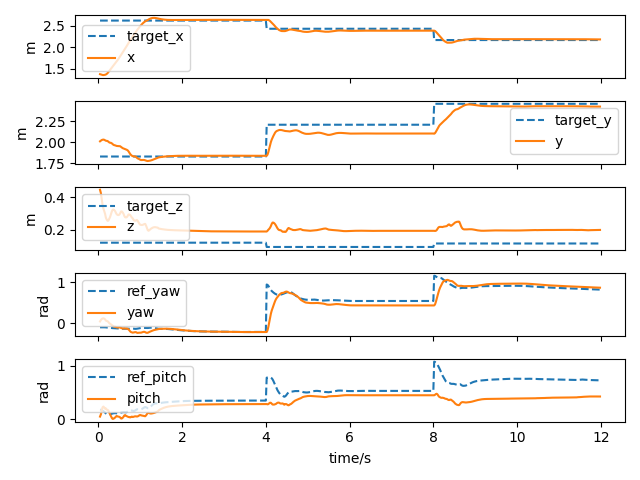
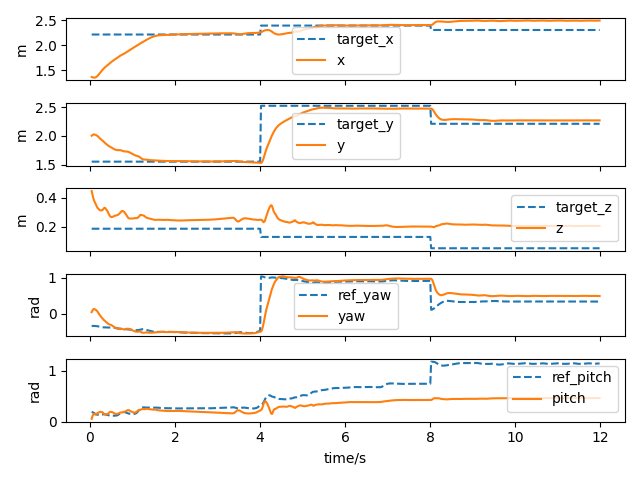
feat: vis goal

diff --git a/legged_gym/legged_gym/envs/go1g/go1g.py b/legged_gym/legged_gym/envs/go1g/go1g.py
@@ -290,7 +290,7 @@ class Go1G(BaseTask):
             self.gym.clear_lines(self.viewer)
             # self._draw_height_samples()
             self._draw_goals()
-            self._draw_feet()
+            # self._draw_feet()
             if self.cfg.depth.use_camera:
                 window_name = "Depth Image"
                 cv2.namedWindow(window_name, cv2.WINDOW_NORMAL)
@@ -1158,39 +1158,43 @@ class Go1G(BaseTask):
             gymutil.draw_lines(sphere_geom, self.gym, self.viewer, self.envs[i], sphere_pose)
     
     def _draw_goals(self):
-        sphere_geom = gymutil.WireframeSphereGeometry(0.1, 32, 32, None, color=(1, 0, 0))
         sphere_geom_cur = gymutil.WireframeSphereGeometry(0.1, 32, 32, None, color=(0, 0, 1))
-        sphere_geom_reached = gymutil.WireframeSphereGeometry(self.cfg.env.next_goal_threshold, 32, 32, None, color=(0, 1, 0))
-        goals = self.terrain_goals[self.terrain_levels[self.lookat_id], self.terrain_types[self.lookat_id]].cpu().numpy()
-        for i, goal in enumerate(goals):
-            goal_xy = goal[:2] + self.terrain.cfg.border_size
-            pts = (goal_xy/self.terrain.cfg.horizontal_scale).astype(int)
-            goal_z = self.height_samples[pts[0], pts[1]].cpu().item() * self.terrain.cfg.vertical_scale
-            pose = gymapi.Transform(gymapi.Vec3(goal[0], goal[1], goal_z), r=None)
-            if i == self.cur_goal_idx[self.lookat_id].cpu().item():
-                gymutil.draw_lines(sphere_geom_cur, self.gym, self.viewer, self.envs[self.lookat_id], pose)
-                if self.reached_goal_ids[self.lookat_id]:
-                    gymutil.draw_lines(sphere_geom_reached, self.gym, self.viewer, self.envs[self.lookat_id], pose)
-            else:
-                gymutil.draw_lines(sphere_geom, self.gym, self.viewer, self.envs[self.lookat_id], pose)
+        pose = gymapi.Transform(gymapi.Vec3(self.target_position[self.lookat_id,0], self.target_position[self.lookat_id,1], self.target_position[self.lookat_id,2]), r=None)
+        gymutil.draw_lines(sphere_geom_cur, self.gym, self.viewer, self.envs[self.lookat_id], pose)
         
-        if not self.cfg.depth.use_camera:
-            sphere_geom_arrow = gymutil.WireframeSphereGeometry(0.02, 16, 16, None, color=(1, 0.35, 0.25))
-            pose_robot = self.root_states[self.lookat_id, :3].cpu().numpy()
-            for i in range(5):
-                norm = torch.norm(self.target_pos_rel, dim=-1, keepdim=True)
-                target_vec_norm = self.target_pos_rel / (norm + 1e-5)
-                pose_arrow = pose_robot[:2] + 0.1*(i+3) * target_vec_norm[self.lookat_id, :2].cpu().numpy()
-                pose = gymapi.Transform(gymapi.Vec3(pose_arrow[0], pose_arrow[1], pose_robot[2]), r=None)
-                gymutil.draw_lines(sphere_geom_arrow, self.gym, self.viewer, self.envs[self.lookat_id], pose)
+        # sphere_geom = gymutil.WireframeSphereGeometry(0.1, 32, 32, None, color=(1, 0, 0))
+        # sphere_geom_cur = gymutil.WireframeSphereGeometry(0.1, 32, 32, None, color=(0, 0, 1))
+        # sphere_geom_reached = gymutil.WireframeSphereGeometry(self.cfg.env.next_goal_threshold, 32, 32, None, color=(0, 1, 0))
+        # goals = self.terrain_goals[self.terrain_levels[self.lookat_id], self.terrain_types[self.lookat_id]].cpu().numpy()
+        # for i, goal in enumerate(goals):
+        #     goal_xy = goal[:2] + self.terrain.cfg.border_size
+        #     pts = (goal_xy/self.terrain.cfg.horizontal_scale).astype(int)
+        #     goal_z = self.height_samples[pts[0], pts[1]].cpu().item() * self.terrain.cfg.vertical_scale
+        #     pose = gymapi.Transform(gymapi.Vec3(goal[0], goal[1], goal_z), r=None)
+        #     if i == self.cur_goal_idx[self.lookat_id].cpu().item():
+        #         gymutil.draw_lines(sphere_geom_cur, self.gym, self.viewer, self.envs[self.lookat_id], pose)
+        #         if self.reached_goal_ids[self.lookat_id]:
+        #             gymutil.draw_lines(sphere_geom_reached, self.gym, self.viewer, self.envs[self.lookat_id], pose)
+        #     else:
+        #         gymutil.draw_lines(sphere_geom, self.gym, self.viewer, self.envs[self.lookat_id], pose)
+        
+        # if not self.cfg.depth.use_camera:
+        #     sphere_geom_arrow = gymutil.WireframeSphereGeometry(0.02, 16, 16, None, color=(1, 0.35, 0.25))
+        #     pose_robot = self.root_states[self.lookat_id, :3].cpu().numpy()
+        #     for i in range(5):
+        #         norm = torch.norm(self.target_pos_rel, dim=-1, keepdim=True)
+        #         target_vec_norm = self.target_pos_rel / (norm + 1e-5)
+        #         pose_arrow = pose_robot[:2] + 0.1*(i+3) * target_vec_norm[self.lookat_id, :2].cpu().numpy()
+        #         pose = gymapi.Transform(gymapi.Vec3(pose_arrow[0], pose_arrow[1], pose_robot[2]), r=None)
+        #         gymutil.draw_lines(sphere_geom_arrow, self.gym, self.viewer, self.envs[self.lookat_id], pose)
             
-            sphere_geom_arrow = gymutil.WireframeSphereGeometry(0.02, 16, 16, None, color=(0, 1, 0.5))
-            for i in range(5):
-                norm = torch.norm(self.next_target_pos_rel, dim=-1, keepdim=True)
-                target_vec_norm = self.next_target_pos_rel / (norm + 1e-5)
-                pose_arrow = pose_robot[:2] + 0.2*(i+3) * target_vec_norm[self.lookat_id, :2].cpu().numpy()
-                pose = gymapi.Transform(gymapi.Vec3(pose_arrow[0], pose_arrow[1], pose_robot[2]), r=None)
-                gymutil.draw_lines(sphere_geom_arrow, self.gym, self.viewer, self.envs[self.lookat_id], pose)
+        #     sphere_geom_arrow = gymutil.WireframeSphereGeometry(0.02, 16, 16, None, color=(0, 1, 0.5))
+        #     for i in range(5):
+        #         norm = torch.norm(self.next_target_pos_rel, dim=-1, keepdim=True)
+        #         target_vec_norm = self.next_target_pos_rel / (norm + 1e-5)
+        #         pose_arrow = pose_robot[:2] + 0.2*(i+3) * target_vec_norm[self.lookat_id, :2].cpu().numpy()
+        #         pose = gymapi.Transform(gymapi.Vec3(pose_arrow[0], pose_arrow[1], pose_robot[2]), r=None)
+        #         gymutil.draw_lines(sphere_geom_arrow, self.gym, self.viewer, self.envs[self.lookat_id], pose)
         
     def _draw_feet(self):
         if hasattr(self, 'feet_at_edge'):

diff --git a/legged_gym/legged_gym/scripts/play.py b/legged_gym/legged_gym/scripts/play.py
@@ -66,7 +66,7 @@ def play(args):
     # override some parameters for testing
     if args.nodelay:
         env_cfg.domain_rand.action_delay_view = 0
-    env_cfg.env.num_envs = 2 if not args.save else 64
+    env_cfg.env.num_envs = 1 if not args.save else 64  # 2
     env_cfg.env.episode_length_s = 12 # 60
     env_cfg.commands.resampling_time = 4 # 60
     env_cfg.terrain.num_rows = 2
@@ -121,7 +121,7 @@ def play(args):
 
     # load policy
     train_cfg.runner.resume = True
-    ppo_runner, train_cfg, log_pth = task_registry.make_alg_runner(log_root = log_pth, env=env, name=args.task, args=args, train_cfg=train_cfg, model_name_include="model", return_log_dir=True)
+    ppo_runner, train_cfg, log_pth = task_registry.make_alg_runner(log_root = log_pth, env=env, name=args.task, args=args, train_cfg=train_cfg, model_name_include="ee", return_log_dir=True)
     
     if args.use_jit:
         path = os.path.join(log_pth, "traced")
@@ -175,7 +175,7 @@ def play(args):
                         step_graphics=True,
                         render_all_camera_sensors=True,
                         wait_for_page_load=True)
-        web_viewer.write_vid()
+            web_viewer.write_vid()
         # store data for plot
         cur_time = env.episode_length_buf[env.lookat_id].item() / 50
         time_hist.append(cur_time)
